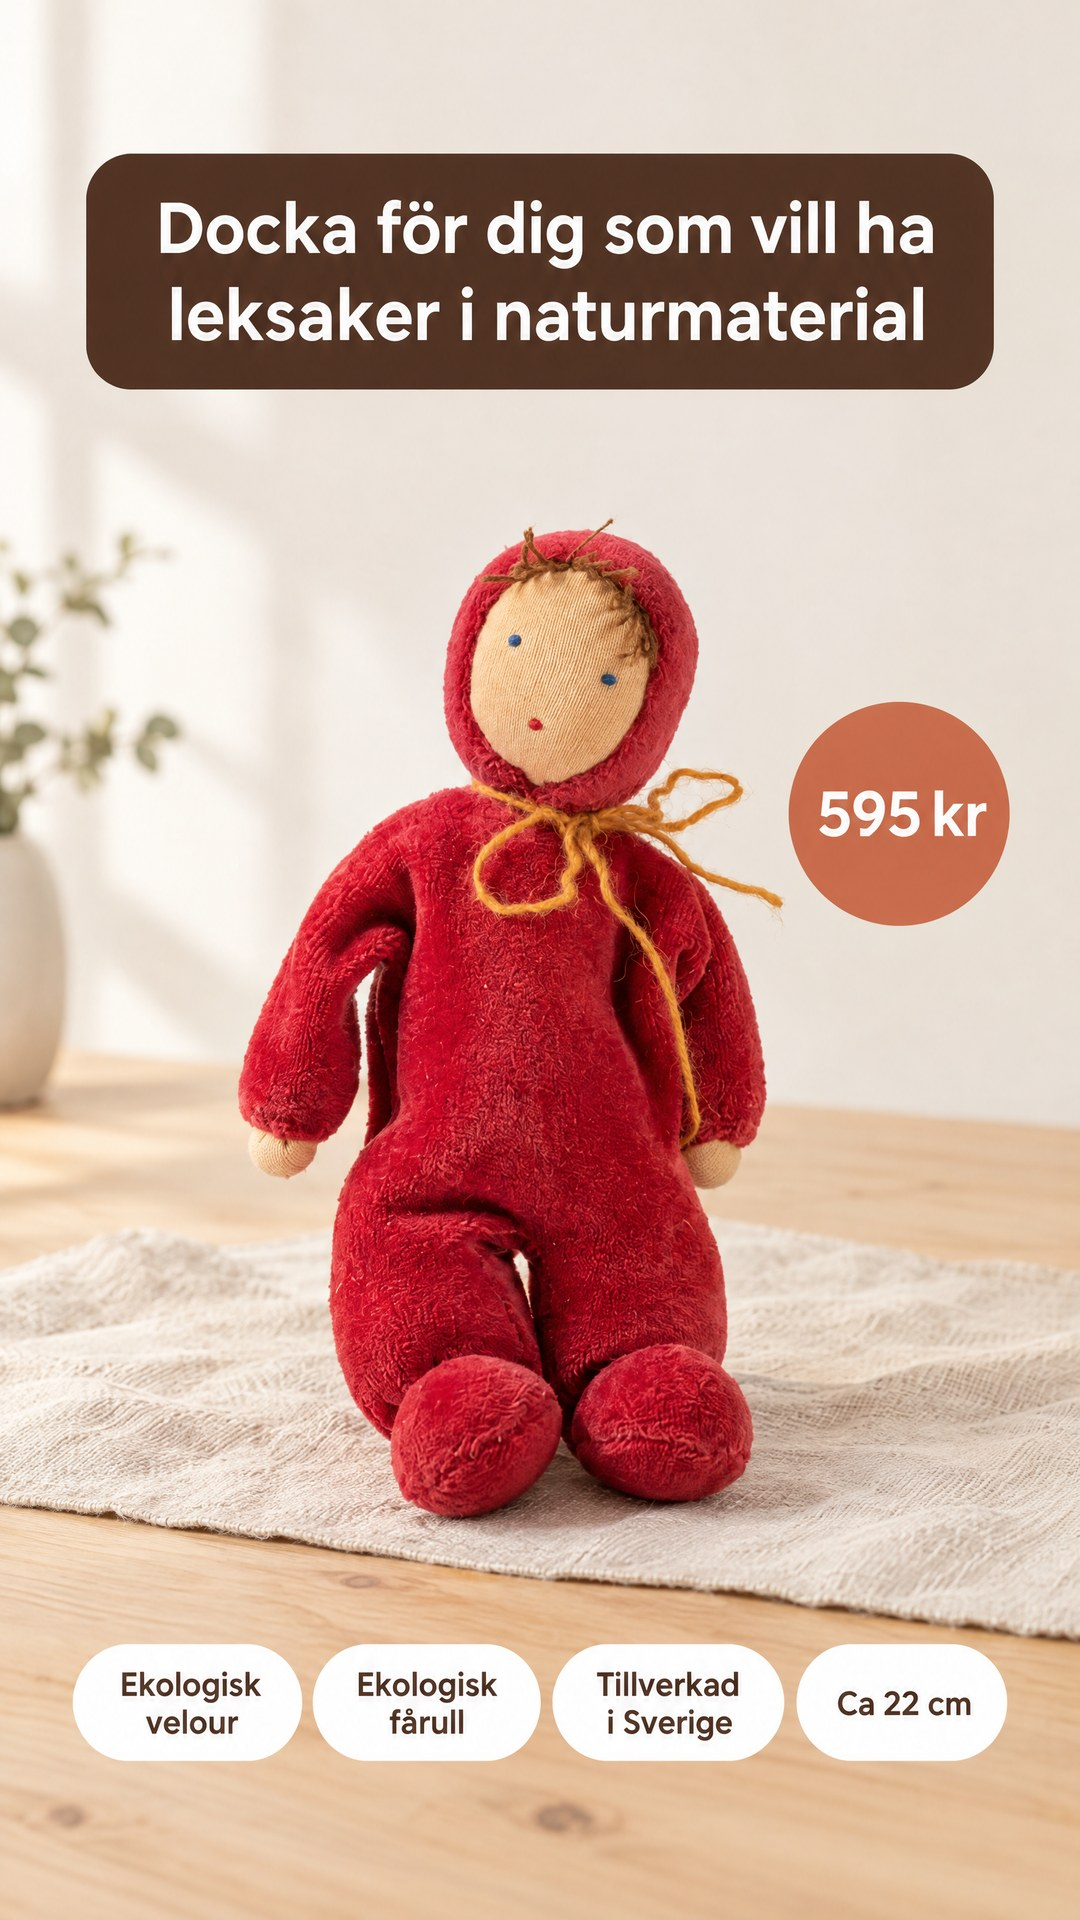
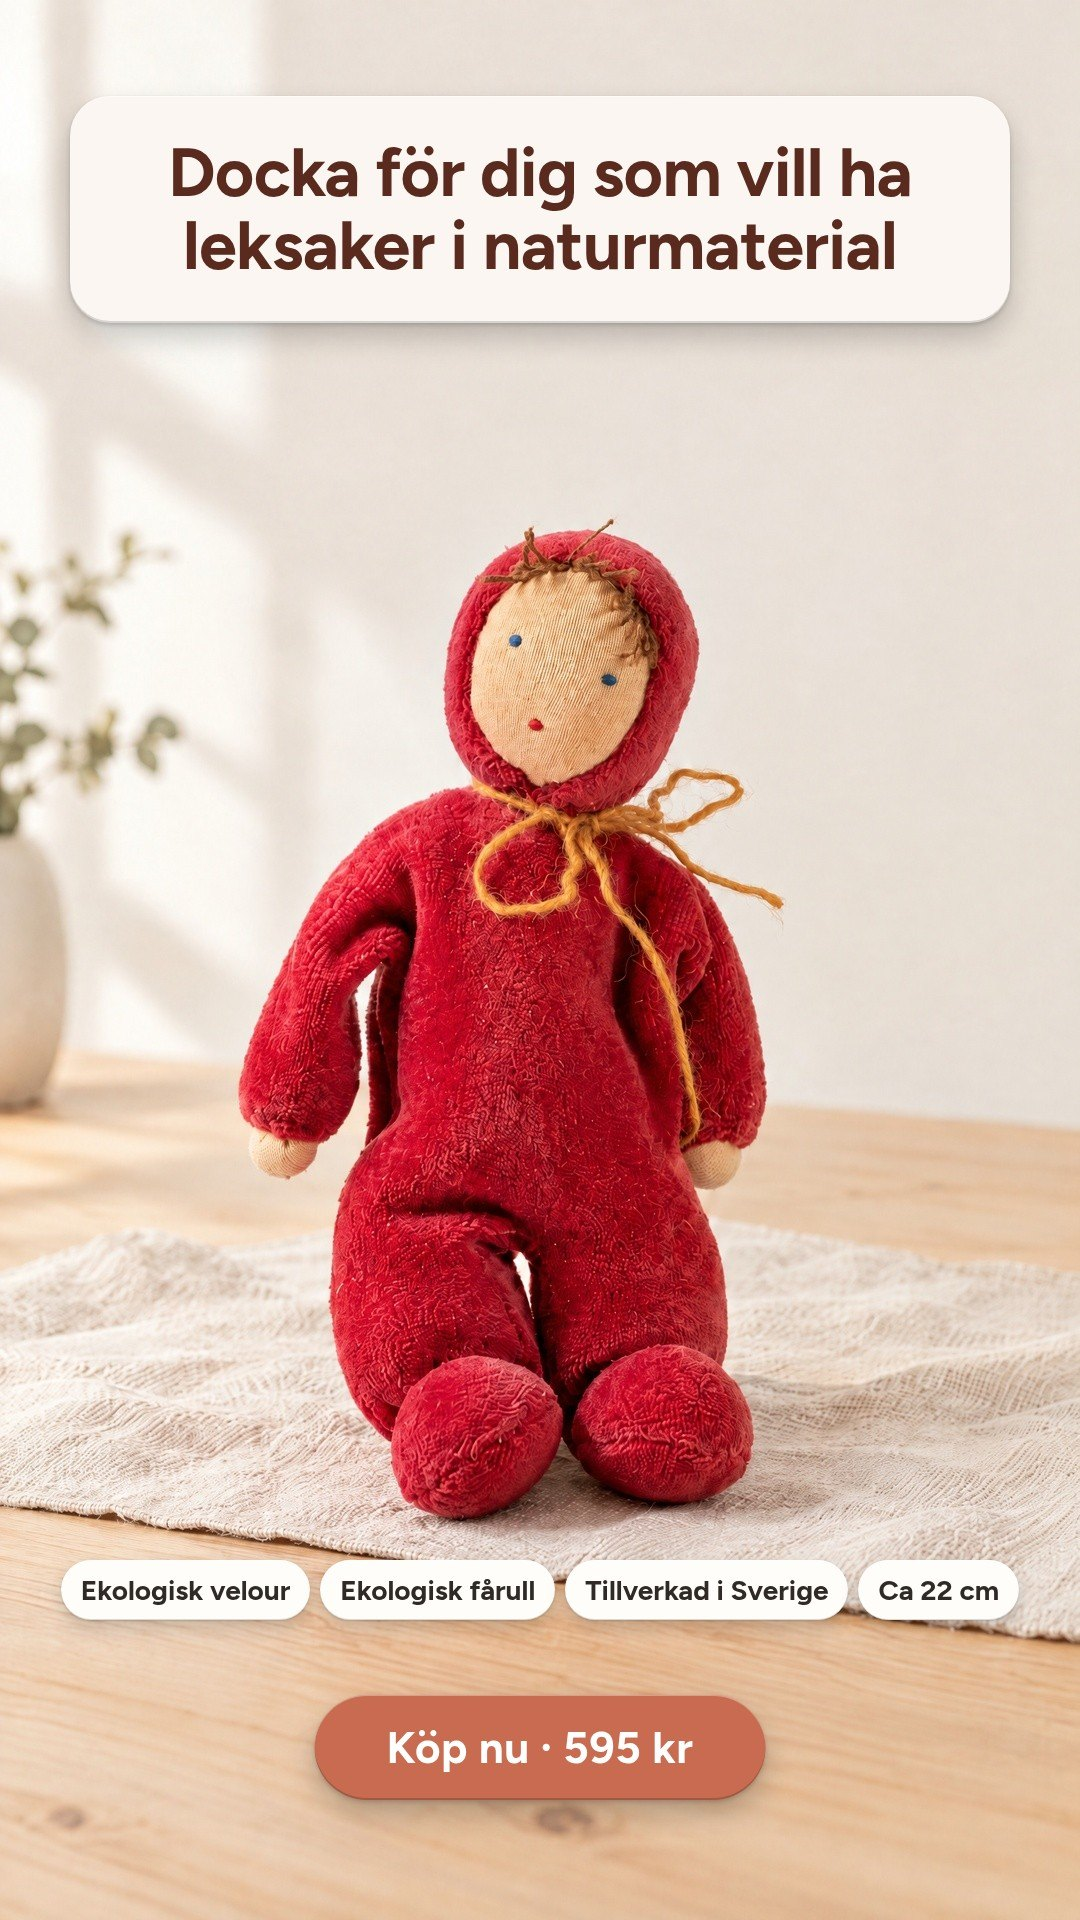
Outbox 2220: omtag fredagens prov. Hippstick bild 1 och KoKoBello bild 1 med text i kod och snyggare CTA, Garnr alla tre nya. Gamla bilder i tidigare-v1

diff --git a/garnr/index.html b/garnr/index.html
@@ -123,9 +123,9 @@ a{color:inherit}
   <section class="table" aria-label="Era tre annonser">
     <div class="sticker">De är era, ladda ner</div>
     <div class="fan">
-      <figure class="print" style="margin:0"><img src="annons-1.jpg" alt="Annons 1 för ChiaoGoo Rundstickor Red Lace" loading="eager"><a class="dl" href="annons-1.jpg" download><span>Annons 1</span><span>Ladda ner</span></a></figure>
-      <figure class="print" style="margin:0"><img src="annons-2.jpg" alt="Annons 2 för ChiaoGoo Rundstickor Red Lace" loading="eager"><a class="dl" href="annons-2.jpg" download><span>Annons 2</span><span>Ladda ner</span></a></figure>
-      <figure class="print" style="margin:0"><img src="annons-3.jpg" alt="Annons 3 för ChiaoGoo Rundstickor Red Lace" loading="eager"><a class="dl" href="annons-3.jpg" download><span>Annons 3</span><span>Ladda ner</span></a></figure>
+      <figure class="print" style="margin:0"><img src="annons-1.jpg?v=2" alt="Annons 1 för ChiaoGoo Rundstickor Red Lace" loading="eager"><a class="dl" href="annons-1.jpg?v=2" download><span>Annons 1</span><span>Ladda ner</span></a></figure>
+      <figure class="print" style="margin:0"><img src="annons-2.jpg?v=2" alt="Annons 2 för ChiaoGoo Rundstickor Red Lace" loading="eager"><a class="dl" href="annons-2.jpg?v=2" download><span>Annons 2</span><span>Ladda ner</span></a></figure>
+      <figure class="print" style="margin:0"><img src="annons-3.jpg?v=2" alt="Annons 3 för ChiaoGoo Rundstickor Red Lace" loading="eager"><a class="dl" href="annons-3.jpg?v=2" download><span>Annons 3</span><span>Ladda ner</span></a></figure>
     </div>
   </section>
   <p class="under">Det här är riktmärken som visar stilen. När ni beställer går vi djupare med er produkt, era egna bilder och era omdömen.</p>

diff --git a/hippstick/index.html b/hippstick/index.html
@@ -123,7 +123,7 @@ a{color:inherit}
   <section class="table" aria-label="Era tre annonser">
     <div class="sticker">De är era, ladda ner</div>
     <div class="fan">
-      <figure class="print" style="margin:0"><img src="annons-1.jpg" alt="Annons 1 för Min vackraste mössa" loading="eager"><a class="dl" href="annons-1.jpg" download><span>Annons 1</span><span>Ladda ner</span></a></figure>
+      <figure class="print" style="margin:0"><img src="annons-1.jpg?v=2" alt="Annons 1 för Min vackraste mössa" loading="eager"><a class="dl" href="annons-1.jpg?v=2" download><span>Annons 1</span><span>Ladda ner</span></a></figure>
       <figure class="print" style="margin:0"><img src="annons-2.jpg" alt="Annons 2 för Min vackraste mössa" loading="eager"><a class="dl" href="annons-2.jpg" download><span>Annons 2</span><span>Ladda ner</span></a></figure>
       <figure class="print" style="margin:0"><img src="annons-3.jpg" alt="Annons 3 för Min vackraste mössa" loading="eager"><a class="dl" href="annons-3.jpg" download><span>Annons 3</span><span>Ladda ner</span></a></figure>
     </div>

diff --git a/kokobello/index.html b/kokobello/index.html
@@ -123,7 +123,7 @@ a{color:inherit}
   <section class="table" aria-label="Era tre annonser">
     <div class="sticker">De är era, ladda ner</div>
     <div class="fan">
-      <figure class="print" style="margin:0"><img src="annons-1.jpg" alt="Annons 1 för Waldorfdocka Ros" loading="eager"><a class="dl" href="annons-1.jpg" download><span>Annons 1</span><span>Ladda ner</span></a></figure>
+      <figure class="print" style="margin:0"><img src="annons-1.jpg?v=2" alt="Annons 1 för Waldorfdocka Ros" loading="eager"><a class="dl" href="annons-1.jpg?v=2" download><span>Annons 1</span><span>Ladda ner</span></a></figure>
       <figure class="print" style="margin:0"><img src="annons-2.jpg" alt="Annons 2 för Waldorfdocka Ros" loading="eager"><a class="dl" href="annons-2.jpg" download><span>Annons 2</span><span>Ladda ner</span></a></figure>
       <figure class="print" style="margin:0"><img src="annons-3.jpg" alt="Annons 3 för Waldorfdocka Ros" loading="eager"><a class="dl" href="annons-3.jpg" download><span>Annons 3</span><span>Ladda ner</span></a></figure>
     </div>
